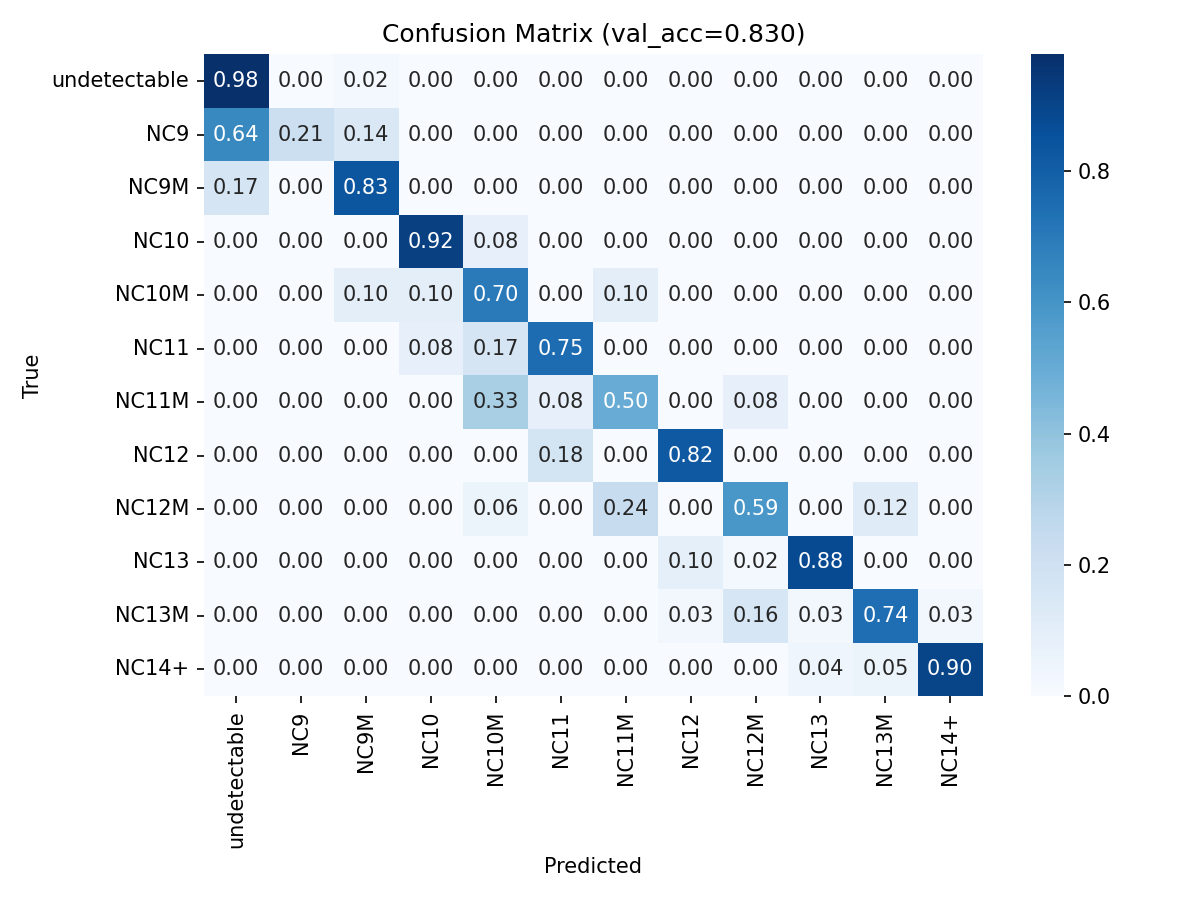
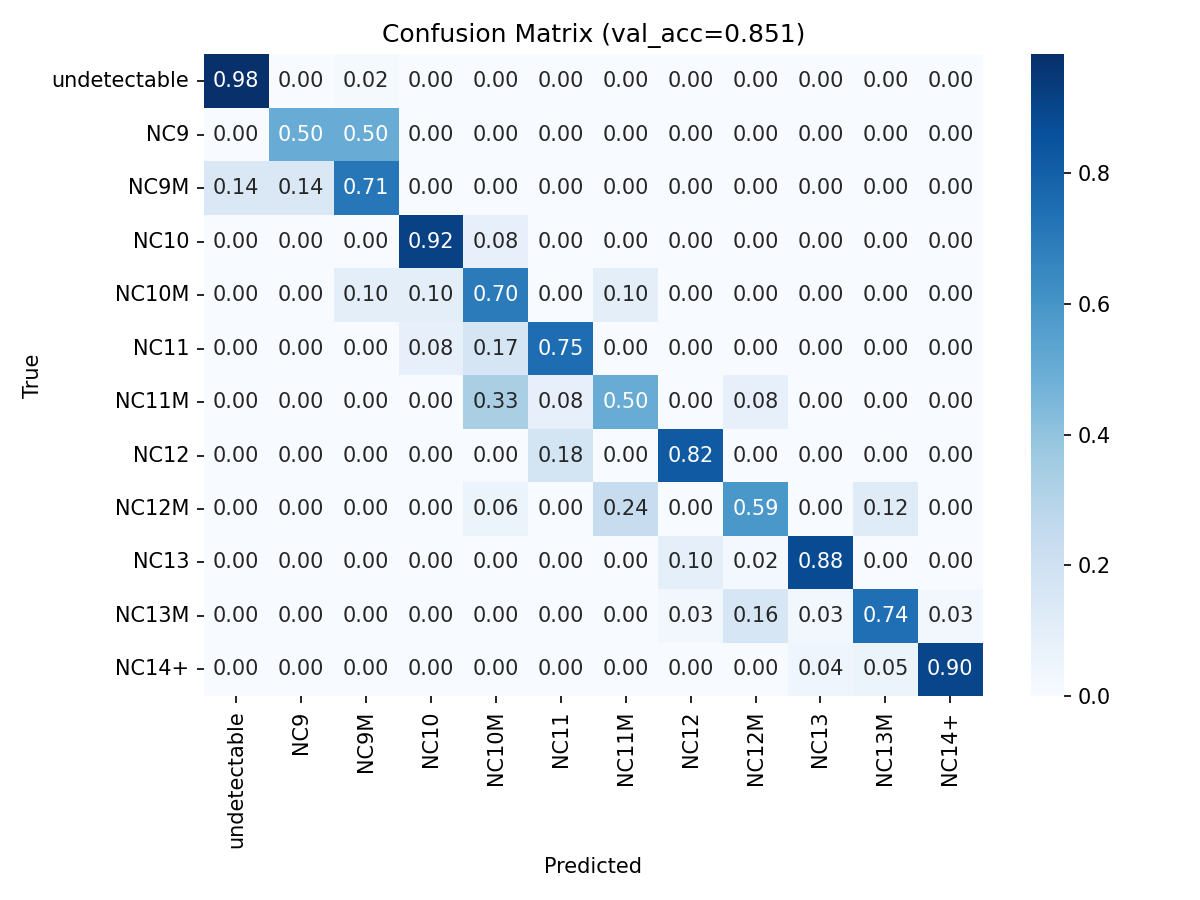
Working HMM

diff --git a/src/classification/hmm_design3/hmm_classifier.py b/src/classification/hmm_design3/hmm_classifier.py
@@ -6,15 +6,12 @@ from sklearn.model_selection import train_test_split
 import seaborn as sns
 import torch
 import torch.nn as nn
-from torch.utils.data import ConcatDataset, DataLoader
 from embryo_video import hist_video
 from pathlib import Path
 import yaml
         
         
 from cnn_classifier import cnn_classifier
-from lstm_classifier import lstm_classifier
-from forward_algorithm import OnlineForwardAlgorithm
 
 
 class NeuralHMM:
@@ -90,40 +87,25 @@ class NeuralHMM:
         probs /= probs.sum() + 1e-9
         return probs
     
-    def _estimate_transition_matrix(self):
-        T = np.zeros((self.n_states, self.n_states))
-        for vid in self.vids:
-            labels = list(vid.frame_labels.values())
-            for i in range(len(labels) - 1):
-                T[labels[i], labels[i+1]] += 1
-        # Normalize rows to sum to 1
-        T = T / (T.sum(axis=1, keepdims=True) + 1e-9)
-        self.transition_matrix = T
-    
     def train_hmm(self):
         train_vids, val_vids = train_test_split(
             self.vids, test_size=0.2, random_state=42
         )
 
-        print([vid.vid_path for vid in val_vids])
-
-        self._estimate_transition_matrix()
-        #self.cnn.train_model(train_vids, val_vids, best_model_path='models/best_hmm_cnn.pt', epochs=10, batch_size=16)
-        self.cnn.load_from_path('models/best_hmm_cnn.pt')
+        self.cnn.train_model(train_vids, val_vids, best_model_path='models/best_hmm_cnn.pt', epochs=10, batch_size=16)
+        #self.cnn.load_from_path('models/best_hmm_cnn.pt')
         self.cnn.evaluate(val_vids)
-        #self.cnn.remove_head()
-        #self.lstm = lstm_classifier(self.hidden_size, self.device, self.STATES, pretrained_cnn=self.cnn)
-        #self.lstm.train_model(train_vids, val_vids, epochs=10, batch_size=16)
-        #self.lstm.load_from_path('models/best_hmm_lstm.pt')
-        #self.lstm.evaluate(val_vids)
         self._train_duration_model()
-        self.evaluate_sample(val_vids[0])
         self.evaluate(val_vids)
 
-    def evaluate_sample(self, vid):
+    def evaluate_sample(self, vid, ax=None):
         print(f'Inferring for sample {vid.vid_path}')
         current_state = None
         frames_in_state = 0
+
+        labels = []
+        preds = []
+        cnn_preds = []
 
         for t in range(len(vid)):
             frame, label = vid[t]
@@ -133,19 +115,21 @@ class NeuralHMM:
                 logits = self.cnn.model(frame)
                 cnn_probs = (torch.softmax(logits, dim=-1).cpu().numpy().squeeze()
             )
-
+            cnn_pred = np.argmax(cnn_probs)
+            
             seconds_in_state = frames_in_state * vid.time_between_frames
             duration_probs = self._get_duration_probs(current_state, seconds_in_state)
 
-            # combined = lstm_probs * duration_probs
             combined = cnn_probs * duration_probs
             combined /= combined.sum()
             prediction = np.argmax(combined)
-
             prediction = max(prediction, current_state or 0)
 
-            print(f'Prediction for frame {t}: {self.STATES[prediction]}\tTrue label: {self.STATES[label]}')
-            #print(f'Probabilities: {combined}')
+            labels.append(label)
+            preds.append(prediction)
+            cnn_preds.append(cnn_pred)
+
+            #print(f'Prediction for frame {t}: {self.STATES[prediction]}\tTrue label: {self.STATES[label]}')
 
             if prediction == current_state:
                 frames_in_state += 1
@@ -153,113 +137,140 @@ class NeuralHMM:
                 current_state = prediction
                 frames_in_state = 1
 
+        labels = np.array(labels)
+        preds = np.array(preds)
+        cnn_preds = np.array(cnn_preds)
+
+        if ax is not None:
+            x = np.arange(len(labels))
+            ax.step(
+                x,
+                labels,
+                where='post',
+                linewidth=2,
+                color='tab:blue',
+                label='True'
+            )
+            ax.step(
+                x,
+                preds,
+                where='post',
+                linewidth=2,
+                color='tab:red',
+                alpha=0.8,
+                label='Predicted'
+            )
+            ax.step(
+                x,
+                cnn_preds,
+                where='post',
+                linewidth=2,
+                color='tab:green',
+                alpha=0.6,
+                linestyle='--',
+                label='CNN'
+            )
+            ax.set_title(Path(vid.vid_path).stem)
+            ax.set_xlabel('Frame')
+            ax.set_ylabel('State')
+            ax.set_yticks(range(self.n_states))
+            ax.set_yticklabels(self.STATES, fontsize=7)
+            ax.grid(True, alpha=0.3)
+            handles, labels_ = ax.get_legend_handles_labels()
+            if handles:
+                ax.legend(fontsize=8)
+        else:
+            fig, ax = plt.subplots(figsize=(12, 4))
+            x = np.arange(len(labels))
+            ax.step(
+                x,
+                labels,
+                where='post',
+                linewidth=2,
+                color='tab:blue',
+                label='True'
+            )
+            ax.step(
+                x,
+                preds,
+                where='post',
+                linewidth=2,
+                color='tab:red',
+                alpha=0.8,
+                label='Predicted'
+            )
+            ax.step(
+                x,
+                cnn_preds,
+                where='post',
+                linewidth=2,
+                color='tab:green',
+                alpha=0.6,
+                linestyle='--',
+                label='CNN'
+            )
+            ax.set_title(Path(vid.vid_path).stem)
+            ax.set_xlabel('Frame')
+            ax.set_ylabel('State')
+            ax.set_yticks(range(self.n_states))
+            ax.set_yticklabels(self.STATES)
+            ax.grid(True, alpha=0.3)
+            ax.legend()
+            plt.tight_layout()
+            plt.savefig(
+                f"models/{Path(vid.vid_path).stem}_state_progression.png",
+                dpi=150
+            )
+            plt.close()
+
+        return labels, preds, cnn_preds
+
     def evaluate(self, val_vids):
         all_preds = []
         all_labels = []
-        #all_lstm_preds = []
         all_cnn_preds = []
 
-        for vid in val_vids:
-            current_state = None
-            frames_in_state = 0
-            h = None
+        # Progression plots
+        n_vids = len(val_vids)
+        ncols = 2
+        nrows = int(np.ceil(n_vids / ncols))
 
-            for t in range(len(vid)):
-                frame, label = vid[t]
+        fig_progress, axes = plt.subplots(
+            nrows,
+            ncols,
+            figsize=(16, 4 * nrows),
+            squeeze=False
+        )
+        axes = axes.flatten()
 
-                # with torch.no_grad():
-                #     frame = frame.unsqueeze(0).to(self.device)
-                #     features = self.lstm.pretrained_cnn.model(frame)
-                #     lstm_out, h = self.lstm.model(features.unsqueeze(0), h)
-                #     logits = self.lstm.fc(lstm_out.squeeze(0))
-                #     lstm_probs = torch.softmax(logits, dim=-1).cpu().numpy().squeeze()
+        for vid_idx, vid in enumerate(val_vids):
+            labels, preds, cnn_preds = self.evaluate_sample(vid, ax=axes[vid_idx])
 
+            all_labels.extend(labels.tolist())
+            all_preds.extend(preds.tolist())
+            all_cnn_preds.extend(cnn_preds.tolist())
 
-                # lstm_pred = np.argmax(lstm_probs)
-                # all_lstm_preds.append(lstm_pred)
+        for ax in axes[n_vids:]:
+            ax.axis('off')
 
-                with torch.no_grad():
-                    frame = frame.unsqueeze(0).to(self.device)
-                    logits = self.cnn.model(frame)
-                    cnn_probs = (torch.softmax(logits, dim=-1).cpu().numpy().squeeze()
-                )
+        fig_progress.tight_layout()
+        fig_progress.savefig(
+            'models/validation_state_progression_grid.png',
+            dpi=150
+        )
+        plt.close(fig_progress)
 
-                cnn_pred = np.argmax(cnn_probs)
-                all_cnn_preds.append(cnn_pred)
-
-                seconds_in_state = frames_in_state * vid.time_between_frames
-                duration_probs = self._get_duration_probs(current_state, seconds_in_state)
-
-                # combined = lstm_probs * duration_probs
-                combined = cnn_probs * duration_probs
-                combined /= combined.sum()
-                prediction = np.argmax(combined)
-                prediction = max(prediction, current_state or 0)
-
-                all_preds.append(prediction)
-                all_labels.append(label)
-
-                if prediction == current_state:
-                    frames_in_state += 1
-                else:
-                    current_state = prediction
-                    frames_in_state = 1
+        print('State progression grid saved to models/validation_state_progression_grid.png')
 
         all_preds = np.array(all_preds)
         all_labels = np.array(all_labels)
-        # all_lstm_preds = np.array(all_lstm_preds)
         all_cnn_preds = np.array(all_cnn_preds)
 
-        # lstm_acc = (all_lstm_preds == all_labels).mean()
         cnn_acc = (all_cnn_preds == all_labels).mean()
         hmm_acc = (all_preds == all_labels).mean()
-        # print(f'LSTM only: {lstm_acc:.3f}')
+
         print(f'CNN only: {cnn_acc:.3f}')
         print(f'HMM: {hmm_acc:.3f}')
-
-        # Confusion matrix
-        cm = confusion_matrix(all_labels, all_preds, labels=list(range(self.n_states)))
-        cm_norm = cm.astype(float) / (cm.sum(axis=1, keepdims=True) + 1e-9)
-
-        fig, axes = plt.subplots(1, 2, figsize=(16, 6))
-
-        sns.heatmap(cm_norm, annot=True, fmt='.2f', cmap='Blues',
-                    xticklabels=self.STATES, yticklabels=self.STATES, ax=axes[0])
-        axes[0].set_xlabel('Predicted')
-        axes[0].set_ylabel('True')
-        axes[0].set_title(f'HMM (acc={hmm_acc:.3f})')
-
-        # cm_lstm = confusion_matrix(all_labels, all_lstm_preds, labels=list(range(self.n_states)))
-        # cm_lstm_norm = cm_lstm.astype(float) / (cm_lstm.sum(axis=1, keepdims=True) + 1e-9)
-
-        # sns.heatmap(cm_lstm_norm, annot=True, fmt='.2f', cmap='Blues',
-        #             xticklabels=self.STATES, yticklabels=self.STATES, ax=axes[1])
-        # axes[1].set_xlabel('Predicted')
-        # axes[1].set_ylabel('True')
-        # axes[1].set_title(f'LSTM only (acc={lstm_acc:.3f})')
-
-        # plt.tight_layout()
-        # plt.savefig('models/hmm_evaluation.png', dpi=150)
-        # plt.close()
-        # print('Heatmap saved to models/hmm_evaluation.png')
-
-        # return hmm_acc, lstm_acc
-
-        cm_lstm = confusion_matrix(all_labels, all_cnn_preds, labels=list(range(self.n_states)))
-        cm_lstm_norm = cm_lstm.astype(float) / (cm_lstm.sum(axis=1, keepdims=True) + 1e-9)
-
-        sns.heatmap(cm_lstm_norm, annot=True, fmt='.2f', cmap='Blues',
-                    xticklabels=self.STATES, yticklabels=self.STATES, ax=axes[1])
-        axes[1].set_xlabel('Predicted')
-        axes[1].set_ylabel('True')
-        axes[1].set_title(f'CNN only (acc={cnn_acc:.3f})')
-
-        plt.tight_layout()
-        plt.savefig('models/hmm_evaluation.png', dpi=150)
-        plt.close()
-        print('Heatmap saved to models/hmm_evaluation.png')
-
-        return hmm_acc, cnn_acc
 
 if __name__ == '__main__':
 
@@ -272,6 +283,4 @@ if __name__ == '__main__':
     print(f'Using device: {DEVICE}')
     classifier = NeuralHMM('data/hmm_tifs', DEVICE, window_size=1)
 
-    # print(classifier.vids[0].get_frame_window(6))
     classifier.train_hmm()
-    # print(classifier.cnn.predict(classifier.vids[0].get_frame_window(6)))